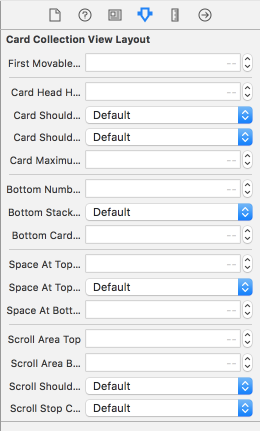
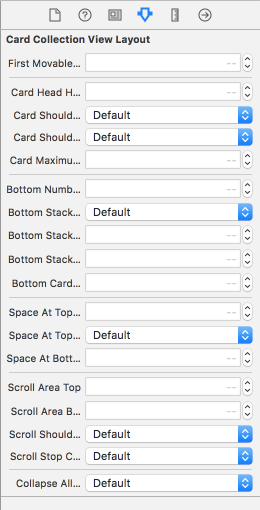
Updated files for Version 0.3.2

Changed region(s): [[0.0, 0.0, 1.0, 0.9954], [0.7385, 0.0, 0.8308, 0.0603], [0.6462, 0.0, 0.7077, 0.0603]]

diff --git a/README.md b/README.md
@@ -135,6 +135,9 @@ These are the public variables of *HFCardCollectionViewLayout*.
 /// Cards are stopping at top while scrolling.
 @IBInspectable var scrollStopCardsAtTop: Bool = true
 
+/// All cards are collapsed at bottom.
+@IBInspectable open var collapseAllCards: Bool = false
+    
 /// Contains the revealed index.
 /// ReadOnly.
 private(set) var revealedIndex: Int = -1
@@ -150,6 +153,9 @@ Interface builder actions
 
 /// Action for the InterfaceBuilder to unreveal the revealed card.
 @IBAction func unrevealRevealedCardAction()
+
+/// Action to collapse all cards.
+@IBAction open func collapseAllCardsAction()
 ```
 
 Public functions

diff --git a/CHANGELOG.md b/CHANGELOG.md
@@ -1,6 +1,12 @@
 # Changelog
 
 
+## 0.3.2
+
+- Added 'collapse all cards' option
+- Fixed a bug of a wrong scale while moving a card.
+
+
 ## 0.3.1
 
 - Improved shadow of the card cell
